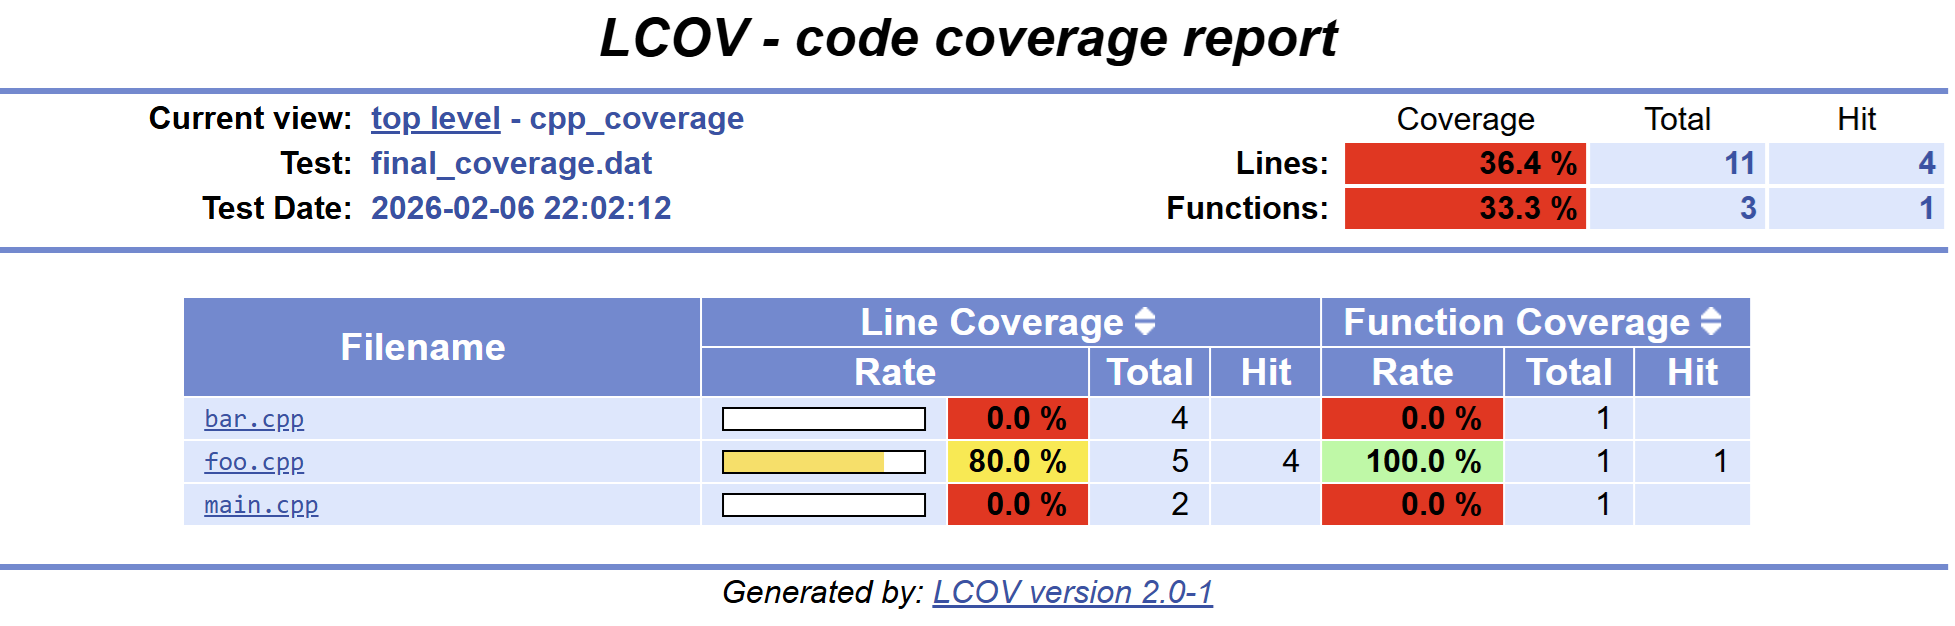
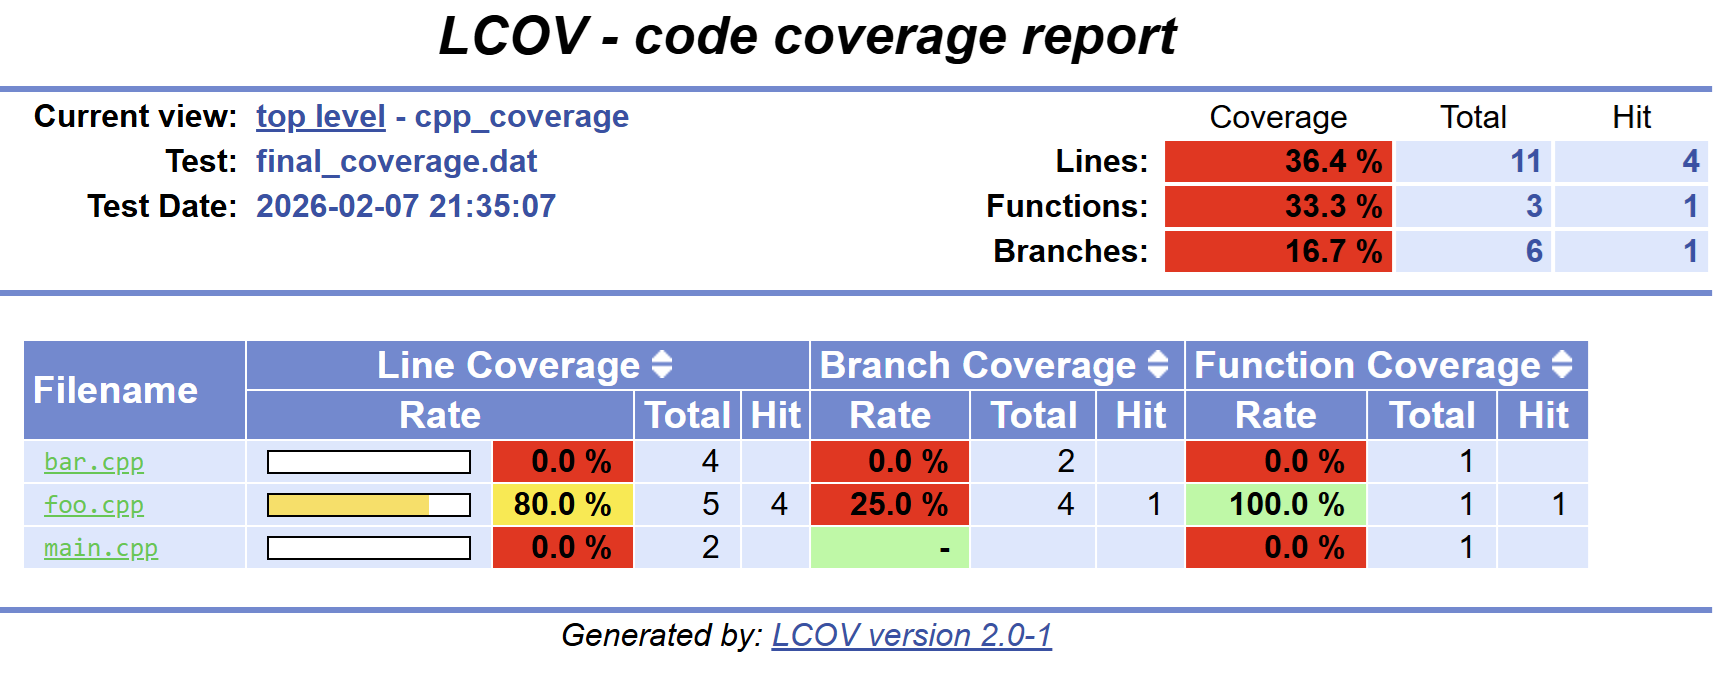
Improve example to show how to generage branch coverage

diff --git a/cpp_coverage/Readme.md b/cpp_coverage/Readme.md
@@ -43,7 +43,7 @@ bazel coverage //:foo_test
 This will run the `foo_test` collecting the coverage information and generating a `.dat` file. Then we can run `genhtml` passing the output file to generate an html report.
 
 ```bash
-genhtml --output-directory coverage-report bazel-testlogs/foo_test/coverage.dat
+genhtml --branch-coverage --output-directory coverage-report bazel-testlogs/foo_test/coverage.dat
 ```
 
 Considering that we are interested in the coverage of the `main` target and all of its dependencies, we would expect to find in the report the files of the `foo`, `bar`, and `main` target. We are not interested on the coverage of the `foo_test` as well as the `catch2`.
@@ -52,24 +52,24 @@ Let's see what we have:
 
 ![Initial coverage](./initial_coverage.png)
 
-In the generated html only the `foo` target appears, showing a line coverage of 80% but in reality is much lower because `main` and `bar` have not been considered. Regarding the coverage measures we only see line coverage and function coverage.
+In the generated html only the `foo` target appears, showing a line coverage of 80% but in reality is much lower because `main` and `bar` have not been considered. Regarding the coverage measures we see line coverage, function coverage, and branch coverage, but no condition coverage.
 
 Let's summarize per target:
 
-- [x] `foo` should appear
-- [ ] `bar` should appear
-- [ ] `main` should appear
-- [x] `foo_test` should not appear
-- [x] `catch2` should not appear
+* [x] `foo` should appear
+* [ ] `bar` should appear
+* [ ] `main` should appear
+* [x] `foo_test` should not appear
+* [x] `catch2` should not appear
 
 And per feature:
 
-- [x] Line coverage
-- [x] Function coverage
-- [ ] Branch coverage
-- [ ] Condition coverage
+* [x] Line coverage
+* [x] Function coverage
+* [x] Branch coverage
+* [ ] Condition coverage
 
-As we can see in the related Bazel github issues, Bazel is not supporting baseline coverage and this is why the report is wrong. 
+As we can see in the related Bazel github issues, Bazel is not supporting baseline coverage and this is why the report is wrong.
 
 ### Workaround to get better results
 
@@ -81,16 +81,16 @@ First we clean the bazel-out to make sure that we do not have any previous cover
 bazel clean --expunge
 ```
 
-Then we compile the target for what we want to know the coverage adding the additional `--collect_code_coverage` parameter:
+Then we compile the target for what we want to know the coverage adding the additional `--collect_code_coverage` and `--remote_download_all` parameters:
 
 ```bash
-bazel build //:main --collect_code_coverage
+bazel build //:main --collect_code_coverage --remote_download_all
 ```
 
 After that, we run lcov from the root of the workspace to generate the `coverage_baseline.dat`:
 
 ```bash
-lcov -c --follow -i -d bazel-out/ -o coverage_baseline.dat
+lcov -c --follow --branch-coverage -i -d bazel-out/ -o coverage_baseline.dat
 ```
 
 This command will search for the coverage files generated during the compilation and will aggregate the information into the `coverage_baseline.dat` file.
@@ -112,35 +112,35 @@ sed -i 's,/proc/self/cwd/,,g' coverage_baseline.dat
 Now we can combine both files with the following command to get the final coverage file.
 
 ```bash
-lcov -a coverage_baseline.dat -a bazel-testlogs/foo_test/coverage.dat -o final_coverage.dat
+lcov --branch-coverage -a coverage_baseline.dat -a bazel-testlogs/foo_test/coverage.dat -o final_coverage.dat
 ```
 
 Like we did before we can now run `genhtml` to generate an html report.
 
 ```bash
-genhtml --output-directory coverage-report final_coverage.dat
+genhtml --branch-coverage --output-directory coverage-report final_coverage.dat
 ```
 
 Let's see now what we get in the report:
 
 ![Extended coverage](./extended_coverage.png)
 
-In the generated html `foo`, `bar` and `main` targets appear, showing a line coverage of 36.4%, much lower than before but now much more correct because `bar` and `main` targets are considered. Regarding the coverage measures we still only see line coverage and function coverage.
+In the generated html `foo`, `bar` and `main` targets appear, showing a line coverage of 36.4%, much lower than before but now much more correct because `bar` and `main` targets are considered. Regarding the coverage measures we still see line coverage, function coverage, and branch coverage, but no condition coverage.
 
 Let's summarize per target:
 
-- [x] `foo` should appear
-- [x] `bar` should appear
-- [x] `main` should appear
-- [x] `foo_test` should not appear
-- [x] `catch2` should not appear
+* [x] `foo` should appear
+* [x] `bar` should appear
+* [x] `main` should appear
+* [x] `foo_test` should not appear
+* [x] `catch2` should not appear
 
 And per feature:
 
-- [x] Line coverage
-- [x] Function coverage
-- [ ] Branch coverage
-- [ ] Condition coverage
+* [x] Line coverage
+* [x] Function coverage
+* [x] Branch coverage
+* [ ] Condition coverage
 
 ## Related links
 
